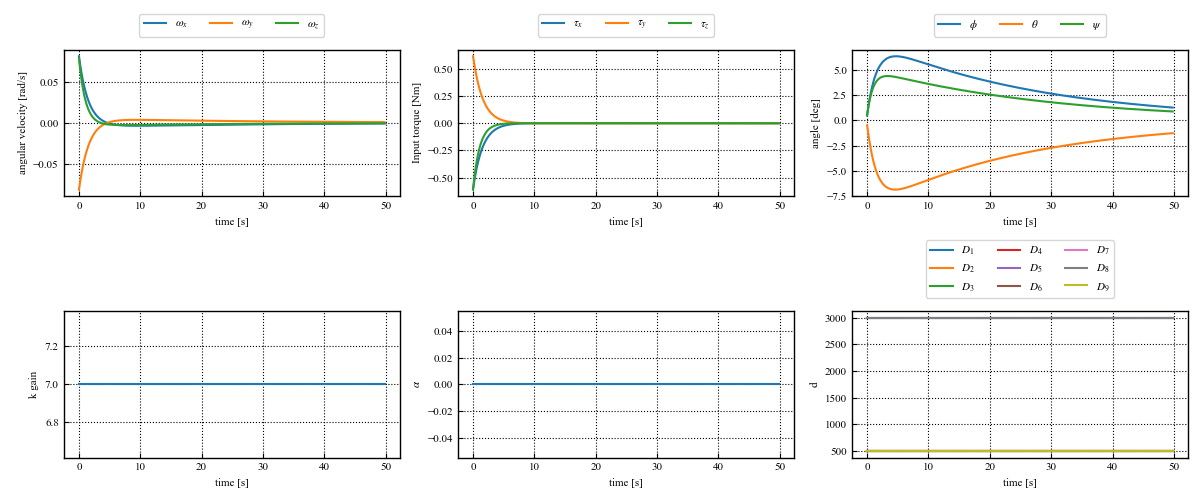
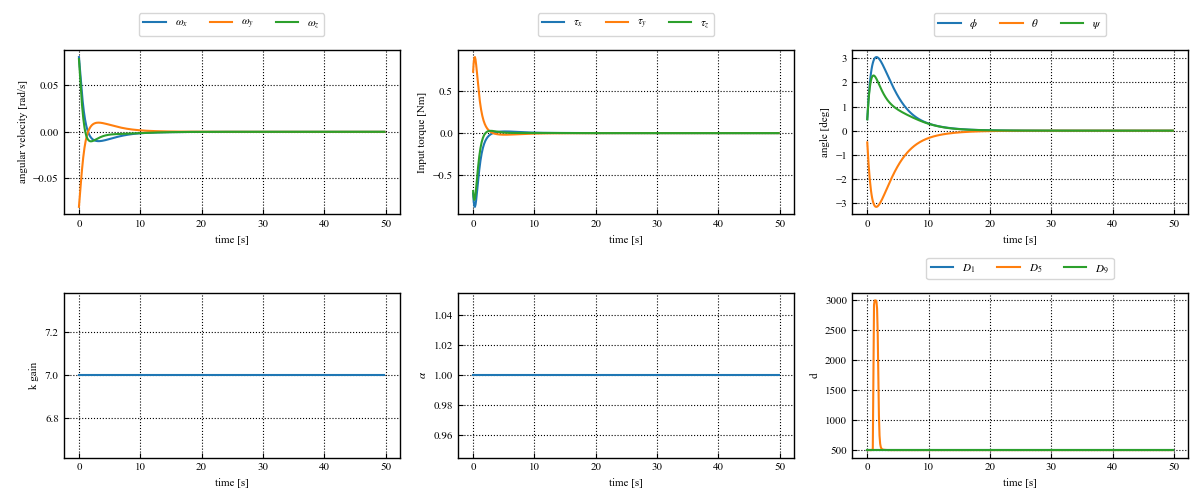
CHANGE: reward

diff --git a/td3/train.py b/td3/train.py
@@ -114,7 +114,7 @@ def evaluate():
     max_steps = int(simutime/dt) -1 # dt is 0.1
     alpha = 0.5
     k_max = 7
-    alpha_max = 2
+    alpha_max = 1
 
     th_e = np.array(env.inertia.flatten())
     with tqdm(range(max_steps),leave=False) as pbar:
@@ -122,10 +122,10 @@ def evaluate():
             action = agent.get_action(state )
             para_candi = (action + 1)/2
             #----------------control law (Adaptive controller)-----------------------
-            k = para_candi[0]*k_max
-            alpha = para_candi[1]*alpha_max
+            k =7#para_candi[0]*k_max
+            alpha =1# para_candi[1]*alpha_max
             d_tmp = [para_candi[i+2]*2500 +500 for i in range(len(para_candi)-2)]
-            D = np.diag([1/d_tmp[0],1/d_tmp[1],1/d_tmp[2],1/d_tmp[3],1/d_tmp[4],1/d_tmp[5],1/d_tmp[6],1/d_tmp[7],1/d_tmp[8]])
+            D = np.diag(1/d_tmp[0],1/d_tmp[1],1/d_tmp[2],1/d_tmp[3],1/d_tmp[4],1/d_tmp[5],1/d_tmp[6],1/d_tmp[7],1/d_tmp[8]])
 
             W = state[8:11]
             x1 = state[1:4]
@@ -276,13 +276,13 @@ def evaluate():
     # # plt.figure(figsize=(yoko,tate),dpi=100)
     plt.subplot(236)
     plt.plot(np.arange(max_steps)*dt, d_hist[:,0],label = r"$D_{1}$")
-    plt.plot(np.arange(max_steps)*dt, d_hist[:,1],label = r"$D_{2}$")
-    plt.plot(np.arange(max_steps)*dt, d_hist[:,2],label = r"$D_{3}$")
-    plt.plot(np.arange(max_steps)*dt, d_hist[:,3],label = r"$D_{4}$")
+    # plt.plot(np.arange(max_steps)*dt, d_hist[:,1],label = r"$D_{2}$")
+    # plt.plot(np.arange(max_steps)*dt, d_hist[:,2],label = r"$D_{3}$")
+    # plt.plot(np.arange(max_steps)*dt, d_hist[:,3],label = r"$D_{4}$")
     plt.plot(np.arange(max_steps)*dt, d_hist[:,4],label = r"$D_{5}$")
-    plt.plot(np.arange(max_steps)*dt, d_hist[:,5],label = r"$D_{6}$")
-    plt.plot(np.arange(max_steps)*dt, d_hist[:,6],label = r"$D_{7}$")
-    plt.plot(np.arange(max_steps)*dt, d_hist[:,7],label = r"$D_{8}$")
+    # plt.plot(np.arange(max_steps)*dt, d_hist[:,5],label = r"$D_{6}$")
+    # plt.plot(np.arange(max_steps)*dt, d_hist[:,6],label = r"$D_{7}$")
+    # plt.plot(np.arange(max_steps)*dt, d_hist[:,7],label = r"$D_{8}$")
     plt.plot(np.arange(max_steps)*dt, d_hist[:,8],label = r"$D_{9}$")
     # plt.title('Action')
     plt.ylabel('d')

diff --git a/td3/environment.py b/td3/environment.py
@@ -145,9 +145,9 @@ class SatelliteContinuousEnv(gym.Env):
         self.omega_count = 0
         
         #報酬パラメータ
-        self.q_weight =  1*8#1*20
+        self.q_weight =  1*10#1*20
         self.w_weight = 1.5*10#1.5*100
-        self.action_weight = 0.25#0.25*10
+        self.action_weight = 0.25*2#0.25*10
         
         # 初期状態 角度(deg)　角速度(rad/s)
         # Rest to Rest
@@ -322,7 +322,7 @@ class SatelliteContinuousEnv(gym.Env):
         # self.startEuler = np.deg2rad(np.array([10,0,0]))
         self.startQuate = self.dcm2quaternion(self.euler2dcm(self.startEuler))
         # self.startOmega = np.array([0,0,0])
-        coef = 1#2*np.random.randint(0,2,size=3)-1
+        coef = 2*np.random.randint(0,2,size=3)-1
         self.startOmega = coef* np.deg2rad(np.array([5,-5,5]))#+ np.random.uniform(-1, 1, size=3))
 
         # 目標値(deg)
